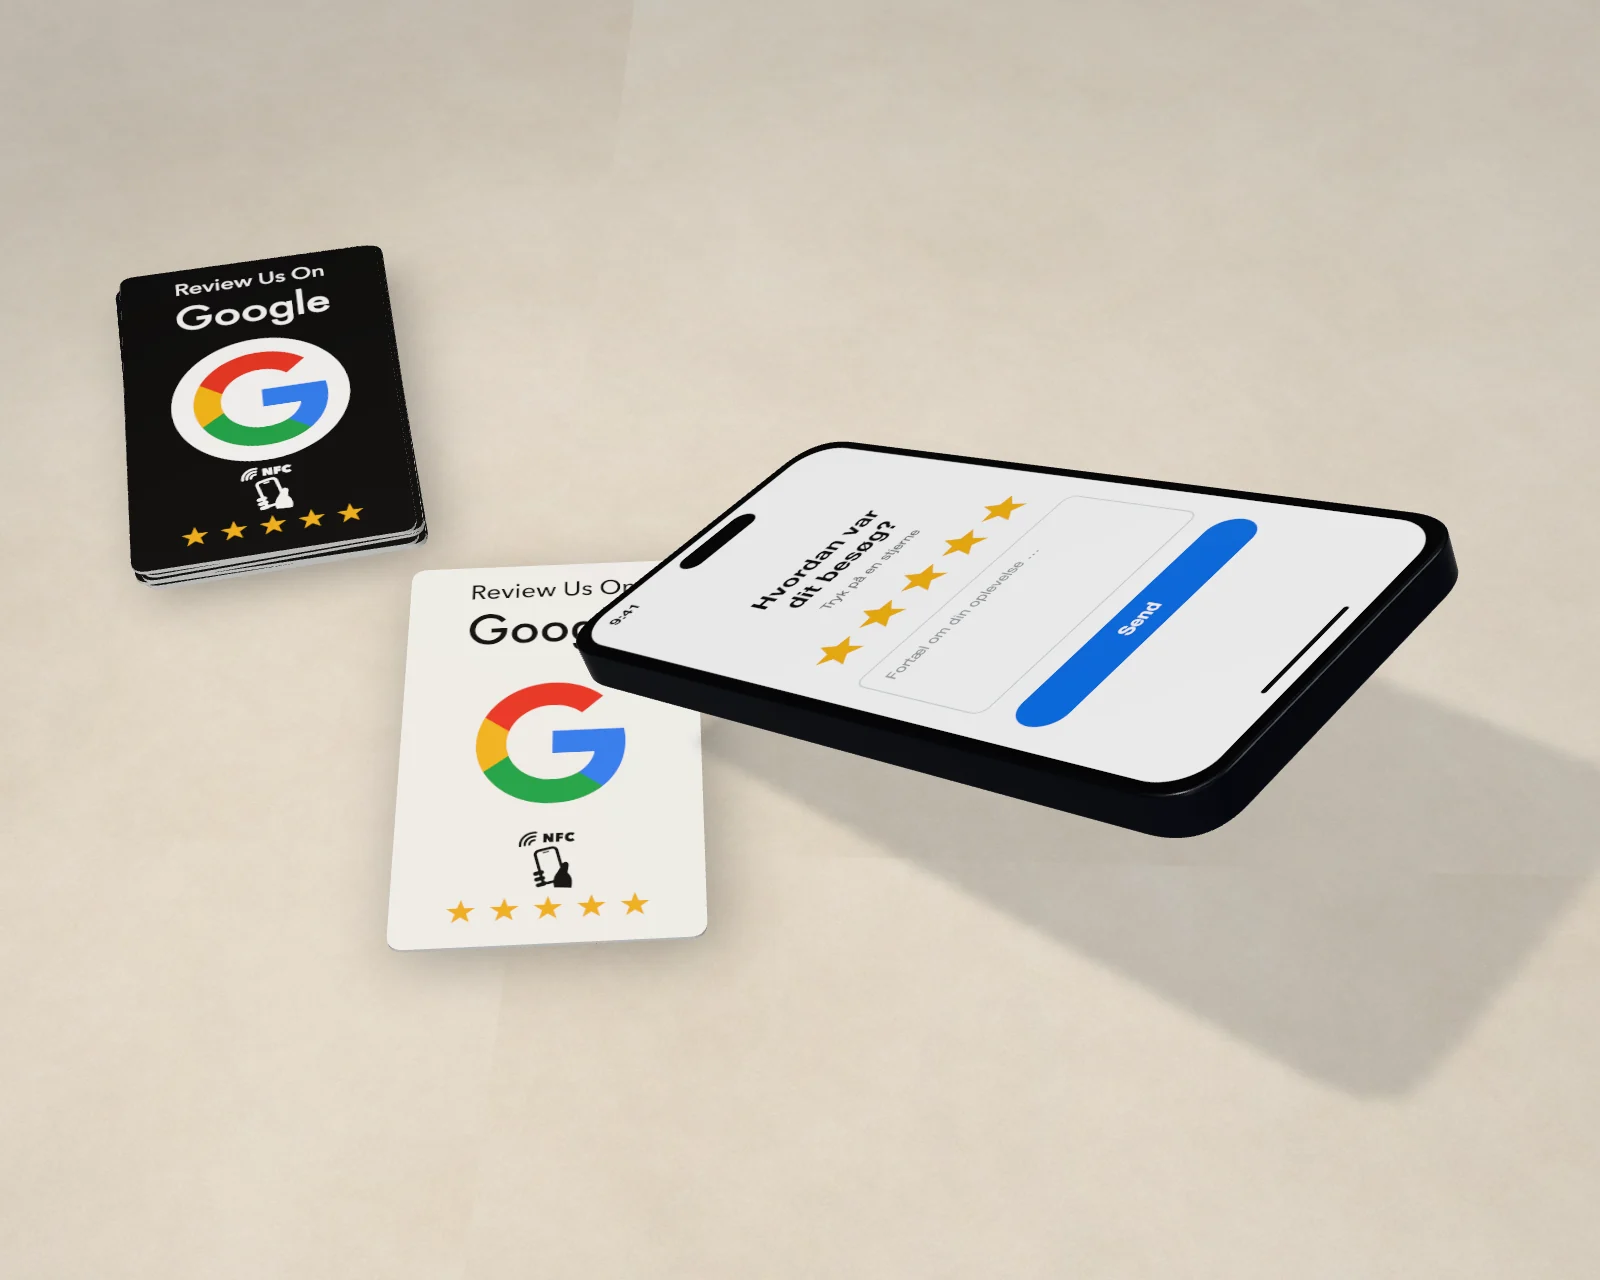
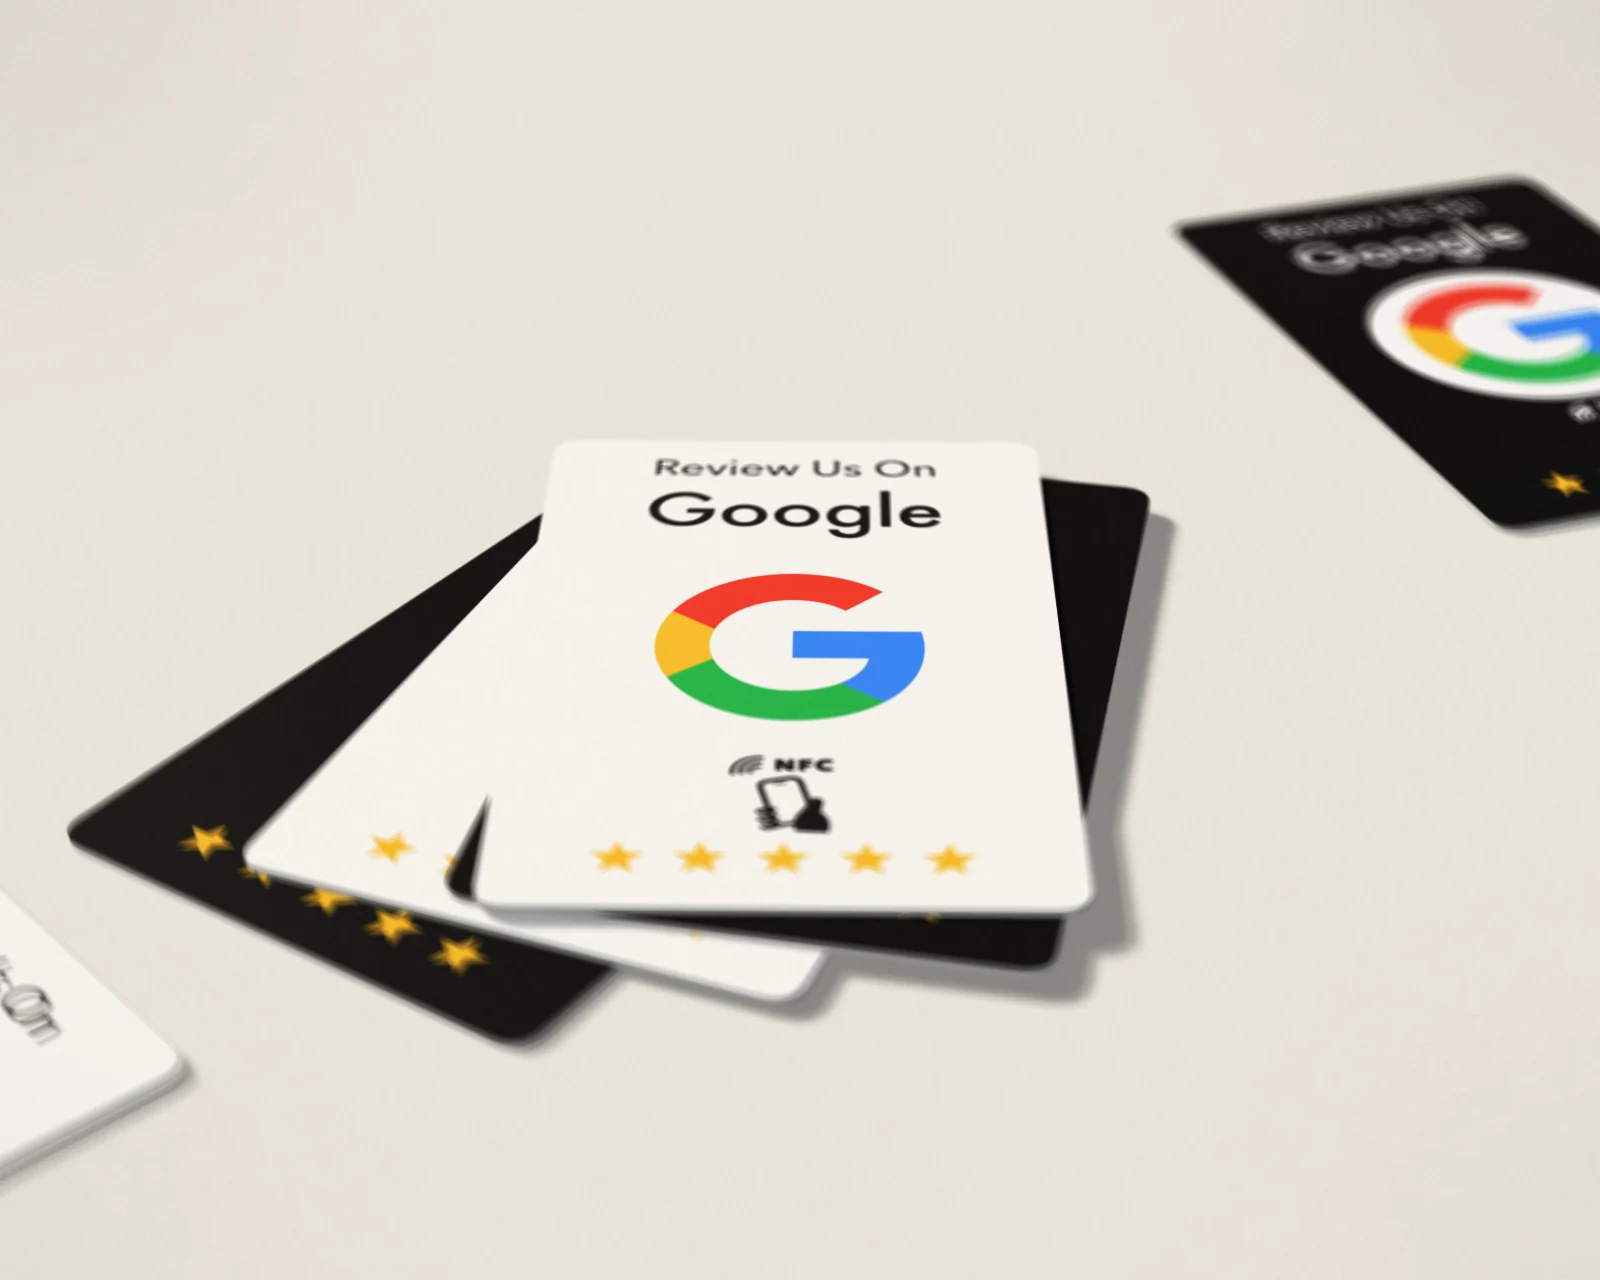
Hero: studio product shot with real depth of field, soft area light, grain
Rendered by accumulating 72 passes with the lens moved across its aperture,
the key light moved across its area and sub-pixel jitter (tools/studio.html).
No floating phone. Share image updated to match.

diff --git a/website/tools/studio.html b/website/tools/studio.html
@@ -1,0 +1,147 @@
+<!doctype html>
+<meta charset="utf-8">
+<title>Studio renderer</title>
+<style>html,body{margin:0;background:#000;overflow:hidden}canvas{display:block}#gl{position:absolute;left:-99999px}</style>
+<canvas id="gl"></canvas><canvas id="out"></canvas>
+<script>window.__cardNoViewer = true;</script>
+<script type="module">
+// Product "photograph" of the real card, rendered like a camera would see it:
+// many passes averaged together, each with the lens moved across its aperture
+// (true depth of field), the key light moved across its area (true soft
+// shadows) and the pixel grid nudged (clean edges). No AI, no post blur.
+import { THREE, CARD, makeCard, makeRenderer, loadTextures } from '../assets/card3d.js';
+import { RoomEnvironment } from 'https://cdn.jsdelivr.net/npm/three@0.165.0/examples/jsm/environments/RoomEnvironment.js/+esm';
+
+const q = new URLSearchParams(location.search);
+const num = (k, d) => (q.has(k) ? +q.get(k) : d);
+const W = num('w', 1600), H = num('h', 1280), N = num('n', 48);
+const deg = THREE.MathUtils.degToRad;
+let seed = 11; const rnd = () => (seed = (seed * 16807) % 2147483647) / 2147483647;
+
+const glc = document.getElementById('gl');
+const renderer = makeRenderer(glc, { preserve: true });
+renderer.setPixelRatio(1);
+renderer.setSize(W, H);
+renderer.setClearColor(0x000000, 1);
+renderer.shadowMap.enabled = true;
+renderer.shadowMap.type = THREE.PCFShadowMap;
+renderer.toneMappingExposure = num('exp', 1.0);
+
+const scene = new THREE.Scene();
+scene.environment = new THREE.PMREMGenerator(renderer).fromScene(new RoomEnvironment(), 0.04).texture;
+scene.environmentIntensity = num('env', 0.38);
+
+/* ---------- seamless paper backdrop: floor that curves up into a wall */
+function paperTexture(base) {
+  const S = 1024, c = document.createElement('canvas'); c.width = c.height = S;
+  const g = c.getContext('2d');
+  g.fillStyle = base; g.fillRect(0, 0, S, S);
+  const img = g.getImageData(0, 0, S, S), d = img.data;
+  for (let i = 0; i < d.length; i += 4) { const v = (rnd() - .5) * 7; d[i] += v; d[i + 1] += v; d[i + 2] += v; }
+  g.putImageData(img, 0, 0);
+  const t = new THREE.CanvasTexture(c);
+  t.colorSpace = THREE.SRGBColorSpace; t.wrapS = t.wrapT = THREE.RepeatWrapping; t.repeat.set(1, 1);
+  return t;
+}
+const sweepShape = [];
+const R = 14;                                    // radius of the curve
+for (let i = 0; i <= 40; i++) {                  // profile in (z, y): floor → curve → wall
+  const a = (i / 40) * Math.PI / 2;
+  sweepShape.push(new THREE.Vector2(-30 - R * Math.sin(a), R - R * Math.cos(a)));
+}
+const prof = [new THREE.Vector2(60, 0), new THREE.Vector2(-30, 0), ...sweepShape.slice(1), new THREE.Vector2(-30 - R, 70)];
+const pts = prof.map(p => p);
+const sweepGeo = new THREE.BufferGeometry();
+{
+  const xs = [-80, 80], pos = [], uv = [], idx = [];
+  // UVs in real centimetres along the profile, so the paper grain is even
+  let run = 0;
+  pts.forEach((p, i) => {
+    if (i) run += p.distanceTo(pts[i - 1]);
+    xs.forEach(x => { pos.push(x, p.y, p.x); uv.push(x / 40, run / 40); });
+  });
+  for (let i = 0; i < pts.length - 1; i++) { const a = i * 2; idx.push(a, a + 2, a + 1, a + 1, a + 2, a + 3); }
+  sweepGeo.setAttribute('position', new THREE.Float32BufferAttribute(pos, 3));
+  sweepGeo.setAttribute('uv', new THREE.Float32BufferAttribute(uv, 2));
+  sweepGeo.setIndex(idx); sweepGeo.computeVertexNormals();
+}
+const paper = new THREE.Mesh(sweepGeo, new THREE.MeshStandardMaterial({
+  map: paperTexture(q.get('bg') ? '#' + q.get('bg') : '#D8D1C6'), roughness: 0.95, side: THREE.DoubleSide }));
+paper.receiveShadow = true;
+scene.add(paper);
+
+/* ---------- light: big soft key from back-left, gentle fill from the front */
+const KEY = new THREE.Vector3(num('kx', -14), num('ky', 22), num('kz', -10));
+const key = new THREE.DirectionalLight(0xFFF8F0, num('key', 2.6));
+key.castShadow = true;
+key.shadow.mapSize.set(2048, 2048);
+key.shadow.bias = -0.0004; key.shadow.normalBias = 0.02;
+Object.assign(key.shadow.camera, { left: -14, right: 14, top: 14, bottom: -14, near: 1, far: 80 });
+scene.add(key, key.target);
+const fill = new THREE.DirectionalLight(0xEAF0FF, num('fill', 0.35));
+fill.position.set(8, 10, 18);
+scene.add(fill);
+
+/* ---------- cards */
+const [front, back] = await loadTextures(renderer, new URL('../', location.href).href);
+function lay(side, x, y, z, turn, tiltX = 0) {
+  const card = makeCard(front, back);
+  card.traverse(o => { if (o.isMesh) { o.castShadow = true; o.receiveShadow = true; } });
+  card.rotation.set(side === 'white' ? -Math.PI / 2 : Math.PI / 2, 0, side === 'white' ? 0 : Math.PI);
+  card.position.y = CARD.d / 2;
+  const h = new THREE.Group(); h.add(card);
+  h.rotation.set(tiltX, turn, 0, 'YXZ');
+  h.position.set(x, y, z);
+  scene.add(h);
+  return h;
+}
+
+// A loose fan: cards slid off a stack, black and white sides alternating,
+// the hero card on top with the white side up.
+const fan = [
+  ['black', -1.9, 1.15, -24],
+  ['white', -0.8, 0.55, -12],
+  ['black',  0.5, 0.25,  -2],
+  ['white',  0.0, 0.0,    9],
+];
+fan.forEach(([side, x, z, r], i) => lay(side, x + num('fx', 0), i * (CARD.d + 0.006), z + num('fz', 0), deg(r + num('fr', 0))));
+// One card further back, out of focus, black side up.
+lay('black', num('bx', 7.5), 0, num('bz', -9), deg(num('br', 28)));
+// One closer to the lens, bottom left, white side, very out of focus.
+if (q.get('fg') !== '0') lay('white', num('gx', -8.5), 0, num('gz', 8.5), deg(num('gr', -38)));
+
+/* ---------- camera + accumulation */
+const camera = new THREE.PerspectiveCamera(num('fov', 26), W / H, 0.5, 300);
+const BASE = new THREE.Vector3(num('cx', 4), num('cy', 13), num('cz', 24));
+const FOCUS = new THREE.Vector3(num('tx', 0), 0, num('tz', 1));
+const APERTURE = num('ap', 0.55);   // lens radius in cm — bigger = shallower focus
+const LIGHT_R = num('lr', 3.5);     // key light radius — bigger = softer shadows
+
+const gl = renderer.getContext();
+const px = new Uint8Array(W * H * 4), acc = new Float32Array(W * H * 3);
+const fwd = new THREE.Vector3(), right = new THREE.Vector3(), up = new THREE.Vector3();
+for (let s = 0; s < N; s++) {
+  // point on the aperture disk (uniform)
+  const a = rnd() * Math.PI * 2, r = Math.sqrt(rnd()) * APERTURE;
+  camera.position.copy(BASE); camera.lookAt(FOCUS);
+  camera.getWorldDirection(fwd);
+  right.crossVectors(fwd, camera.up).normalize(); up.crossVectors(right, fwd).normalize();
+  camera.position.addScaledVector(right, Math.cos(a) * r).addScaledVector(up, Math.sin(a) * r);
+  camera.lookAt(FOCUS);
+  camera.setViewOffset(W, H, rnd() - .5, rnd() - .5, W, H);
+  // point on the key light
+  const b = rnd() * Math.PI * 2, lr = Math.sqrt(rnd()) * LIGHT_R;
+  key.position.copy(KEY).add(new THREE.Vector3(Math.cos(b) * lr, Math.sin(b) * lr * .5, Math.sin(b) * lr));
+  renderer.render(scene, camera);
+  gl.readPixels(0, 0, W, H, gl.RGBA, gl.UNSIGNED_BYTE, px);
+  for (let i = 0, j = 0; i < px.length; i += 4, j += 3) { acc[j] += px[i]; acc[j + 1] += px[i + 1]; acc[j + 2] += px[i + 2]; }
+}
+const out = document.getElementById('out'); out.width = W; out.height = H;
+const o = out.getContext('2d'), img = o.createImageData(W, H);
+for (let y = 0; y < H; y++) for (let x = 0; x < W; x++) {
+  const src = ((H - 1 - y) * W + x) * 3, dst = (y * W + x) * 4;
+  img.data[dst] = acc[src] / N; img.data[dst + 1] = acc[src + 1] / N; img.data[dst + 2] = acc[src + 2] / N; img.data[dst + 3] = 255;
+}
+o.putImageData(img, 0, 0);
+document.title = 'done';
+</script>

diff --git a/website/index.html b/website/index.html
@@ -10,7 +10,7 @@
 <meta property="og:description" content="Google Review-kort med NFC og QR-kode. Kunden holder telefonen mod kortet, og jeres Google-anmeldelsesside åbner. Fra 189 kr, intet abonnement, sendes fra Danmark.">
 <meta property="og:type" content="website">
 <meta property="og:locale" content="da_DK">
-<meta property="og:image" content="https://reviewpartneren.dk/assets/og.png?v=2">
+<meta property="og:image" content="https://reviewpartneren.dk/assets/og.png?v=3">
 <meta name="twitter:card" content="summary_large_image">
 <link rel="preconnect" href="https://fonts.googleapis.com">
 <link rel="preconnect" href="https://fonts.gstatic.com" crossorigin>
@@ -82,7 +82,7 @@
       </div>
       <div data-reveal="80">
         <div class="hero__media">
-          <img src="assets/img/card-hero.webp?v=4" width="1600" height="1280" alt="En telefon holdes mod et hvidt Google Review-kort på en disk, og skærmen viser en side til at give stjerner. Bagved ligger en stak kort med den sorte side op" fetchpriority="high">
+          <img src="assets/img/card-hero.webp?v=5" width="1600" height="1280" alt="Google Review-kort spredt på et bord: den hvide side med Google-logo, NFC-symbol og fem stjerner øverst, sorte kort under og bagved" fetchpriority="high">
         </div>
       </div>
     </div>

diff --git a/website/anmeldelseskort.html b/website/anmeldelseskort.html
@@ -10,7 +10,7 @@
 <meta property="og:description" content="Google Review-kort (anmeldelseskort) med NFC-chip og QR-kode. Kunden holder telefonen mod kortet, og jeres Google-anmeldelsesside åbner. Fra 189 kr inkl. moms, gratis programmering.">
 <meta property="og:type" content="website">
 <meta property="og:locale" content="da_DK">
-<meta property="og:image" content="https://reviewpartneren.dk/assets/og.png?v=2">
+<meta property="og:image" content="https://reviewpartneren.dk/assets/og.png?v=3">
 <meta name="twitter:card" content="summary_large_image">
 <link rel="preconnect" href="https://fonts.googleapis.com">
 <link rel="preconnect" href="https://fonts.gstatic.com" crossorigin>

diff --git a/website/bestil.html b/website/bestil.html
@@ -10,7 +10,7 @@
 <meta property="og:description" content="Bestil Google Review-kort med NFC. Vælg antal, se mængderabatten med det samme, og betal med kort, MobilePay eller Klarna. Fri fragt til pakkeshop.">
 <meta property="og:type" content="website">
 <meta property="og:locale" content="da_DK">
-<meta property="og:image" content="https://reviewpartneren.dk/assets/og.png?v=2">
+<meta property="og:image" content="https://reviewpartneren.dk/assets/og.png?v=3">
 <meta name="twitter:card" content="summary_large_image">
 <link rel="preconnect" href="https://fonts.googleapis.com">
 <link rel="preconnect" href="https://fonts.gstatic.com" crossorigin>

diff --git a/website/saadan-virker-det.html b/website/saadan-virker-det.html
@@ -10,7 +10,7 @@
 <meta property="og:description" content="Sådan fungerer Google Review-kortet trin for trin: hvad chippen indeholder, hvordan telefonen læser den, og hvorfor der også er en QR-kode.">
 <meta property="og:type" content="website">
 <meta property="og:locale" content="da_DK">
-<meta property="og:image" content="https://reviewpartneren.dk/assets/og.png?v=2">
+<meta property="og:image" content="https://reviewpartneren.dk/assets/og.png?v=3">
 <meta name="twitter:card" content="summary_large_image">
 <link rel="preconnect" href="https://fonts.googleapis.com">
 <link rel="preconnect" href="https://fonts.gstatic.com" crossorigin>

diff --git a/website/faq.html b/website/faq.html
@@ -10,7 +10,7 @@
 <meta property="og:description" content="Svar på de mest stillede spørgsmål om Google Review-kort: telefonkompatibilitet, programmering, levering, holdbarhed og Googles regler.">
 <meta property="og:type" content="website">
 <meta property="og:locale" content="da_DK">
-<meta property="og:image" content="https://reviewpartneren.dk/assets/og.png?v=2">
+<meta property="og:image" content="https://reviewpartneren.dk/assets/og.png?v=3">
 <meta name="twitter:card" content="summary_large_image">
 <link rel="preconnect" href="https://fonts.googleapis.com">
 <link rel="preconnect" href="https://fonts.gstatic.com" crossorigin>

diff --git a/website/forhandler.html b/website/forhandler.html
@@ -10,7 +10,7 @@
 <meta property="og:description" content="Forhandlerpris fra 250 stk., ingen binding og tilbagekøb af usolgt lager. Ingen løfter om indtjening — læs betingelserne her.">
 <meta property="og:type" content="website">
 <meta property="og:locale" content="da_DK">
-<meta property="og:image" content="https://reviewpartneren.dk/assets/og.png?v=2">
+<meta property="og:image" content="https://reviewpartneren.dk/assets/og.png?v=3">
 <meta name="twitter:card" content="summary_large_image">
 <link rel="preconnect" href="https://fonts.googleapis.com">
 <link rel="preconnect" href="https://fonts.gstatic.com" crossorigin>

diff --git a/website/maengderabat.html b/website/maengderabat.html
@@ -10,7 +10,7 @@
 <meta property="og:description" content="Google Review-kort i mængder: prisen falder fra 189 kr til 49 kr pr. kort. Fra 250 stk. eget tryk og betaling med faktura.">
 <meta property="og:type" content="website">
 <meta property="og:locale" content="da_DK">
-<meta property="og:image" content="https://reviewpartneren.dk/assets/og.png?v=2">
+<meta property="og:image" content="https://reviewpartneren.dk/assets/og.png?v=3">
 <meta name="twitter:card" content="summary_large_image">
 <link rel="preconnect" href="https://fonts.googleapis.com">
 <link rel="preconnect" href="https://fonts.gstatic.com" crossorigin>

diff --git a/website/saet-det-op.html b/website/saet-det-op.html
@@ -10,7 +10,7 @@
 <meta property="og:description" content="Trin-for-trin vejledning: find dit Google-anmeldelseslink, skriv det til NFC-chippen, beskyt kortet med kode og test det.">
 <meta property="og:type" content="website">
 <meta property="og:locale" content="da_DK">
-<meta property="og:image" content="https://reviewpartneren.dk/assets/og.png?v=2">
+<meta property="og:image" content="https://reviewpartneren.dk/assets/og.png?v=3">
 <meta name="twitter:card" content="summary_large_image">
 <link rel="preconnect" href="https://fonts.googleapis.com">
 <link rel="preconnect" href="https://fonts.gstatic.com" crossorigin>

diff --git a/website/om-os.html b/website/om-os.html
@@ -10,7 +10,7 @@
 <meta property="og:description" content="Vi sælger Google Review-kort til danske virksomheder. Ingen abonnementer, ingen udokumenterede påstande.">
 <meta property="og:type" content="website">
 <meta property="og:locale" content="da_DK">
-<meta property="og:image" content="https://reviewpartneren.dk/assets/og.png?v=2">
+<meta property="og:image" content="https://reviewpartneren.dk/assets/og.png?v=3">
 <meta name="twitter:card" content="summary_large_image">
 <link rel="preconnect" href="https://fonts.googleapis.com">
 <link rel="preconnect" href="https://fonts.gstatic.com" crossorigin>

diff --git a/website/guides/index.html b/website/guides/index.html
@@ -10,7 +10,7 @@
 <meta property="og:description" content="Praktiske guides om Google Review-kort: NFC vs. QR, placering i butikken, og reglerne du skal kende.">
 <meta property="og:type" content="website">
 <meta property="og:locale" content="da_DK">
-<meta property="og:image" content="https://reviewpartneren.dk/assets/og.png?v=2">
+<meta property="og:image" content="https://reviewpartneren.dk/assets/og.png?v=3">
 <meta name="twitter:card" content="summary_large_image">
 <link rel="preconnect" href="https://fonts.googleapis.com">
 <link rel="preconnect" href="https://fonts.gstatic.com" crossorigin>

diff --git a/website/handelsbetingelser.html b/website/handelsbetingelser.html
@@ -10,7 +10,7 @@
 <meta property="og:description" content="Handelsbetingelser: priser, betaling, levering, fortrydelsesret, reklamationsret og klageadgang.">
 <meta property="og:type" content="website">
 <meta property="og:locale" content="da_DK">
-<meta property="og:image" content="https://reviewpartneren.dk/assets/og.png?v=2">
+<meta property="og:image" content="https://reviewpartneren.dk/assets/og.png?v=3">
 <meta name="twitter:card" content="summary_large_image">
 <link rel="preconnect" href="https://fonts.googleapis.com">
 <link rel="preconnect" href="https://fonts.gstatic.com" crossorigin>
